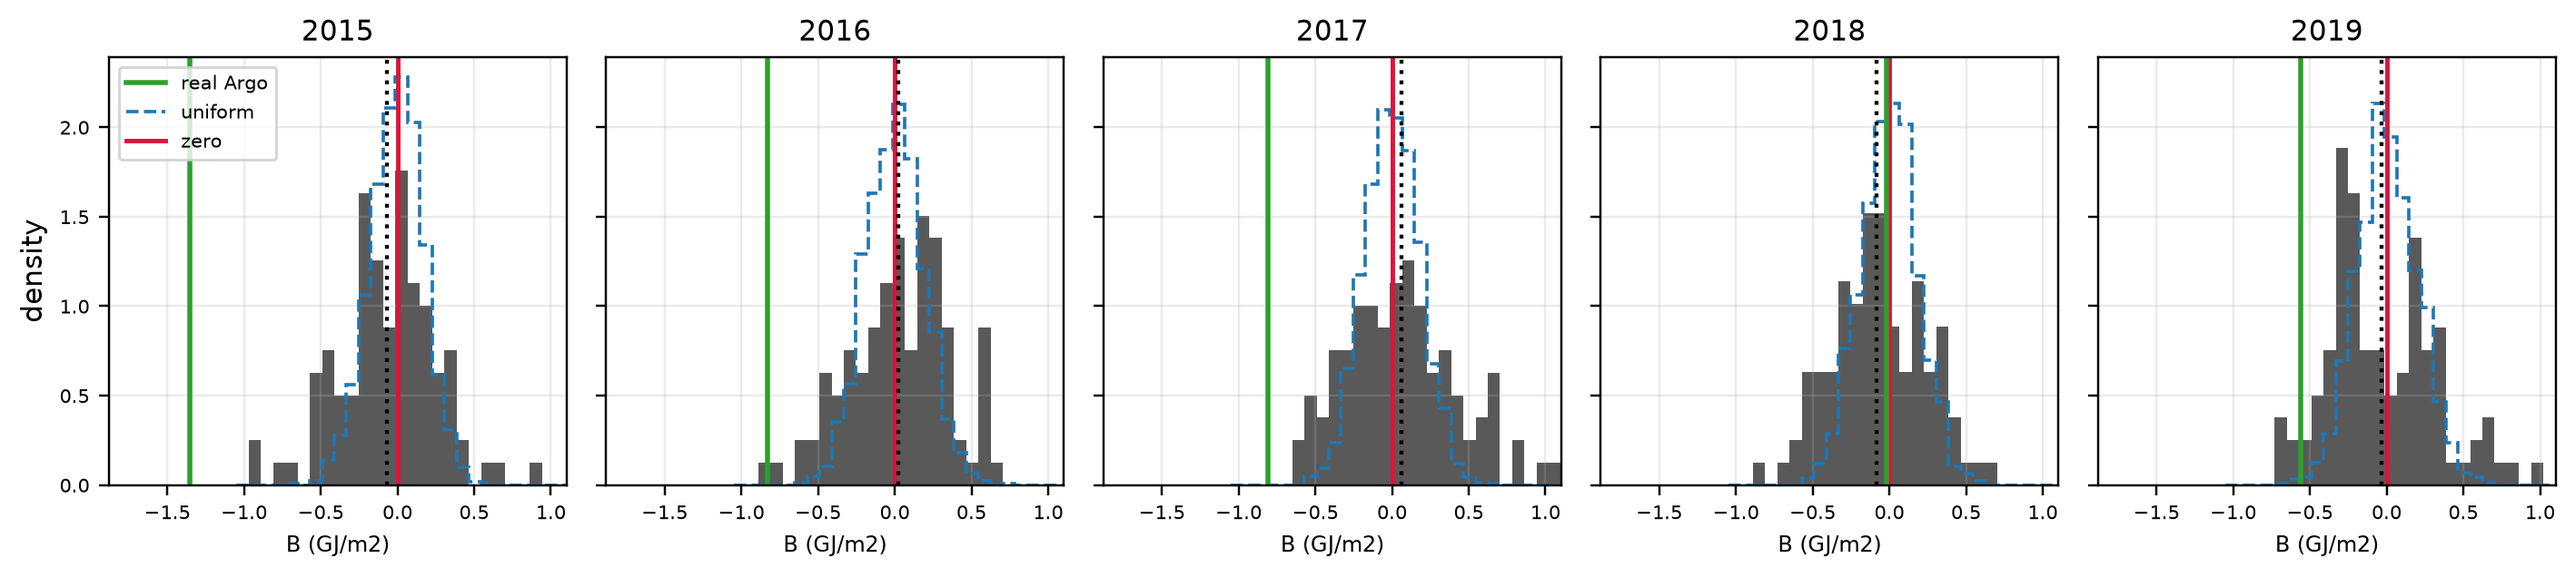
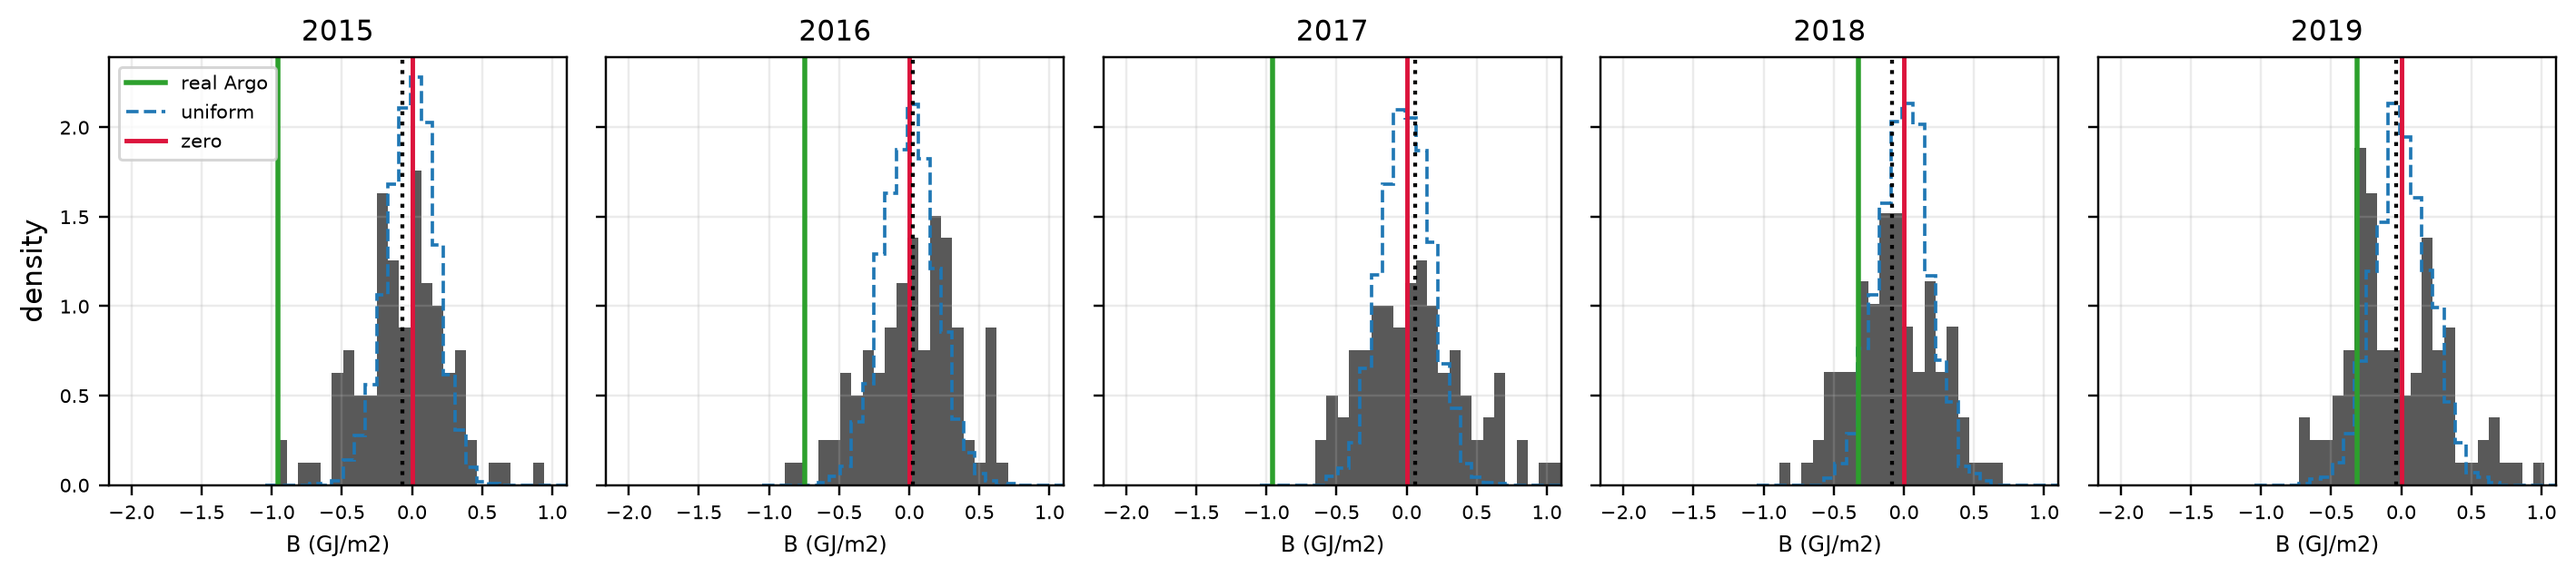
report: QC-clean real Argo before computing its realized bias
Add clean_argo: per float's full global record, greedy-thin to a >=10-day
minimum spacing (drops near-duplicate surface fixes, 2.47M -> 1.43M
profiles) and drop floats with any >3-month gap or a <3-month total span
(16192 -> 14640 floats). argo_bias_by_year now runs on the cleaned record.
The Box B negative bias survives QC (-0.32 to -0.96 GJ/m2, 0-20th
percentile; below the full simulated range in 2015 and 2017) on ~400-680
profiles / 45-70 floats per box-year. Prose and caption updated.

diff --git a/code/osse/mean_mc.py b/code/osse/mean_mc.py
@@ -1962,27 +1962,60 @@ def uniform_reference_ensemble(est, R=2000, seed=0):
     return pd.DataFrame(rows, columns=["box", "year", "B_unif"])
 
 
-def argo_bias_by_year(box, path=None):
-    """Realized bias of the REAL Argo array sampling the GLORYS anomaly field:
-    B_k = mean over that box's year-k Argo profiles of Z_k, minus Zbar_k (J/m^2).
+def clean_argo(path=None, min_spacing=10, max_gap=90, min_span=90):
+    """QC-cleaned real Argo profile record (float_id, lat, lon, date, year, doy).
 
-    Same estimator as the simulated arm, on the actual Argo profile positions
-    (surface locations) in data/argo_ohc.csv. Returns a Series year -> B_argo for
-    the years present in both the Argo record and the residual field.
+    Applied to each float's FULL global record: (1) thin to >= min_spacing days
+    between kept profiles (drops near-duplicate surface fixes); (2) drop the whole
+    float if any consecutive gap exceeds max_gap days OR its total span is under
+    min_span days. doy is on the 365-day leap-dropped calendar (Feb 29 dropped).
     """
-    from osse import sample_residuals as sr
     path = path or os.path.join(os.path.dirname(cfg.GLORYS_DIR), "argo_ohc.csv")
-    d = pd.read_csv(path, usecols=["lat", "lon", "date"])
+    d = pd.read_csv(path, usecols=["float_id", "lat", "lon", "date"])
     d["date"] = pd.to_datetime(d["date"], format="ISO8601", utc=True)
-    (la0, la1), (lo0, lo1) = cfg.BOXES[box]["lat_bounds"], cfg.BOXES[box]["lon_bounds"]
-    d = d[d["lat"].between(la0, la1) & d["lon"].between(lo0, lo1)].copy()
+    d = d.dropna(subset=["lat", "lon", "date"]).sort_values(["float_id", "date"])
+
+    # Greedy thin: keep a profile only if >= min_spacing days since the last KEPT one
+    # (per float), so runs of sub-cycle fixes are thinned to ~min_spacing rather than
+    # collapsed to a single point.
+    fid = pd.factorize(d["float_id"].to_numpy())[0]
+    day = (d["date"] - d["date"].min()).dt.total_seconds().to_numpy() / 86400.0
+    keep = np.zeros(len(d), dtype=bool)
+    last = -1e18
+    for i in range(len(d)):
+        if i and fid[i] != fid[i - 1]:
+            last = -10 ** 9
+        if day[i] - last >= min_spacing:
+            keep[i] = True
+            last = day[i]
+    d = d[keep]
+    gap = d.groupby("float_id")["date"].diff().dt.total_seconds() / 86400.0
+    g = d.groupby("float_id")
+    max_gap_f = gap.groupby(d["float_id"]).transform("max")      # NaN for single-profile floats
+    span_f = (g["date"].transform("max") - g["date"].transform("min")).dt.total_seconds() / 86400.0
+    d = d[(max_gap_f <= max_gap) & (span_f >= min_span)]         # NaN comparisons -> False -> dropped
+
     dt = d["date"].dt
     doy0 = (dt.dayofyear - 1).to_numpy()
     leap = dt.is_leap_year.to_numpy()
-    d["year"] = dt.year.to_numpy()
-    d["doy"] = np.where(leap & (doy0 >= 60), doy0 - 1, doy0)
+    d = d.assign(year=dt.year.to_numpy(),
+                 doy=np.where(leap & (doy0 >= 60), doy0 - 1, doy0))
     d.loc[leap & (dt.month.to_numpy() == 2) & (dt.day.to_numpy() == 29), "doy"] = -1
-    d = d[d["doy"] >= 0]
+    return d[d["doy"] >= 0]
+
+
+def argo_bias_by_year(box, cleaned=None, path=None):
+    """Realized bias of the REAL Argo array sampling the GLORYS anomaly field:
+    B_k = mean over that box's year-k Argo profiles of Z_k, minus Zbar_k (J/m^2).
+
+    Same estimator as the simulated arm, on the QC-cleaned Argo profile positions
+    (surface locations; see clean_argo). Returns a Series year -> B_argo for the
+    years present in both the Argo record and the residual field.
+    """
+    from osse import sample_residuals as sr
+    d = clean_argo(path) if cleaned is None else cleaned
+    (la0, la1), (lo0, lo1) = cfg.BOXES[box]["lat_bounds"], cfg.BOXES[box]["lon_bounds"]
+    d = d[d["lat"].between(la0, la1) & d["lon"].between(lo0, lo1)]
 
     z = sr.load_residual_field(box)
     years = [int(y) for y in z["year"].values]
@@ -1994,7 +2027,7 @@ def argo_bias_by_year(box, path=None):
                           [col[y] for y in sampled["year"].to_numpy()]]
     zf, wet, w = load_field(box)
     zbar = domain_means(zf, wet, w)[0].set_index("year")["zbar"]
-    ghat = sampled[sampled["year"].isin(years)].groupby("year")["z_own"].mean()
+    ghat = sampled.groupby("year")["z_own"].mean()
     return (ghat - zbar).dropna()
 
 
